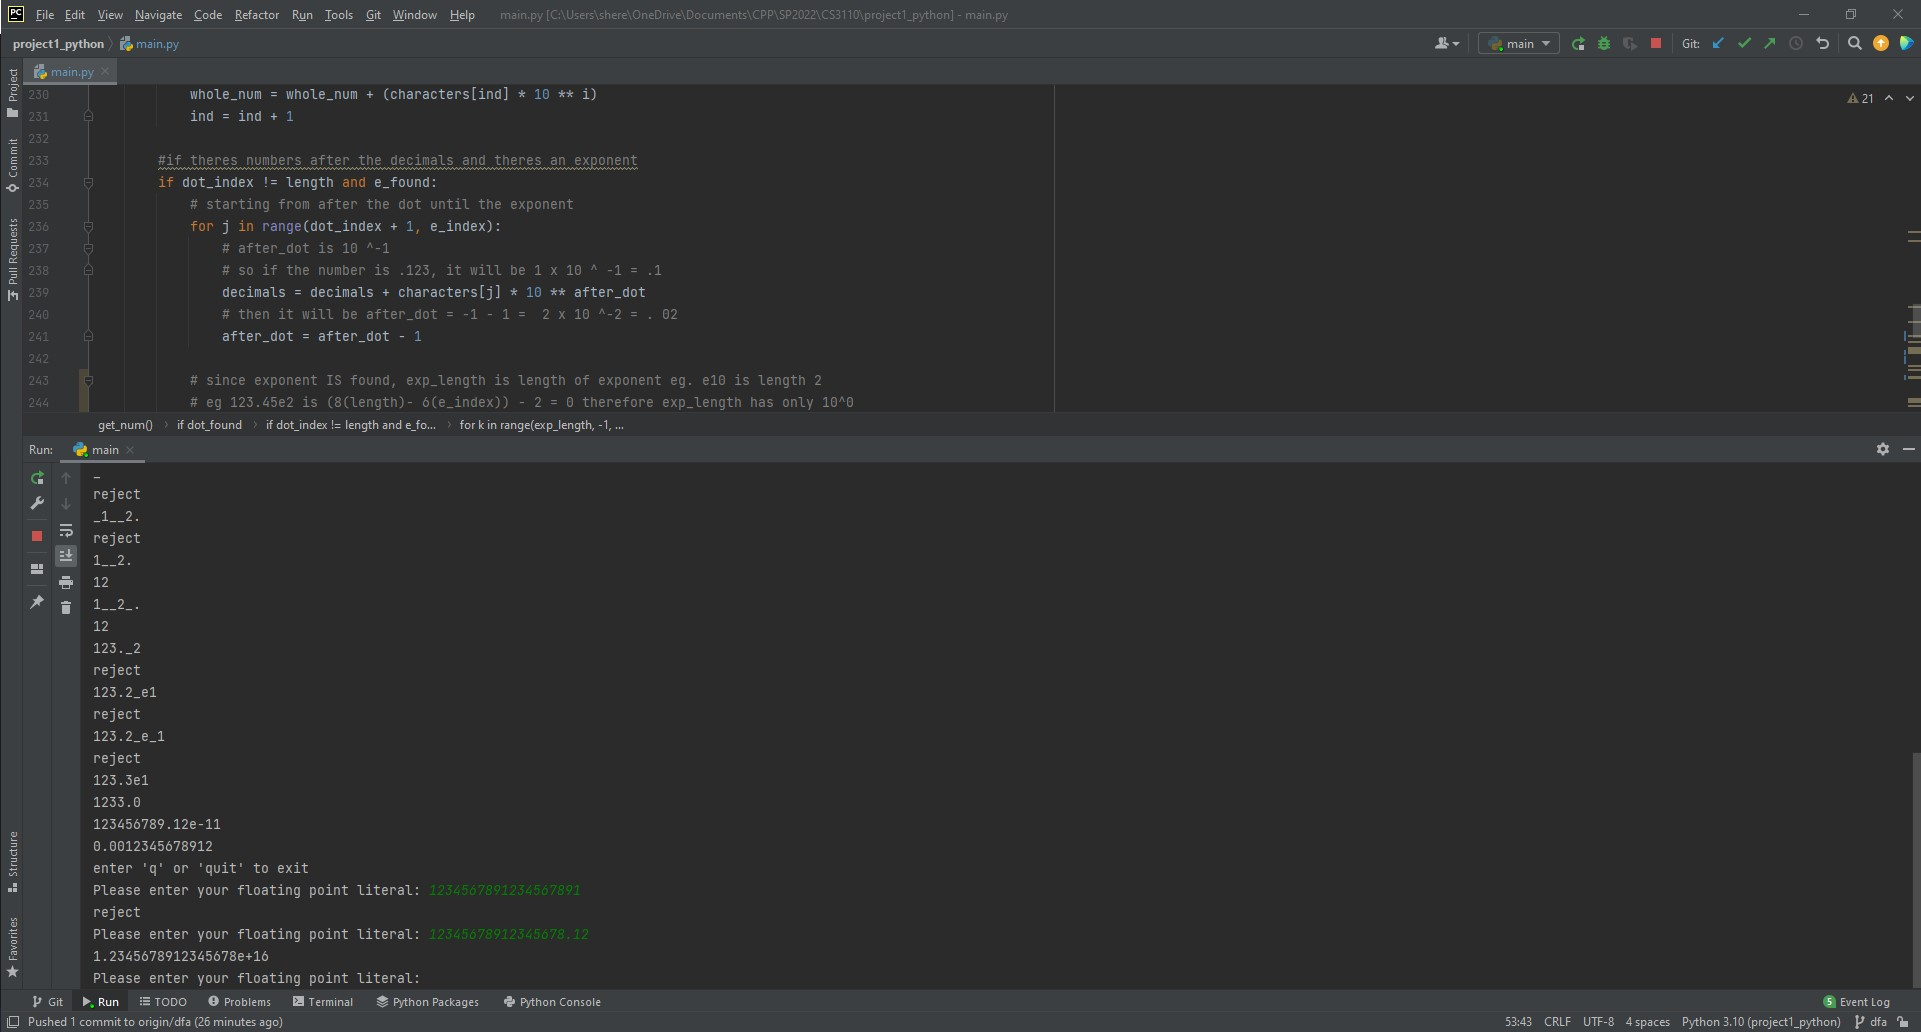
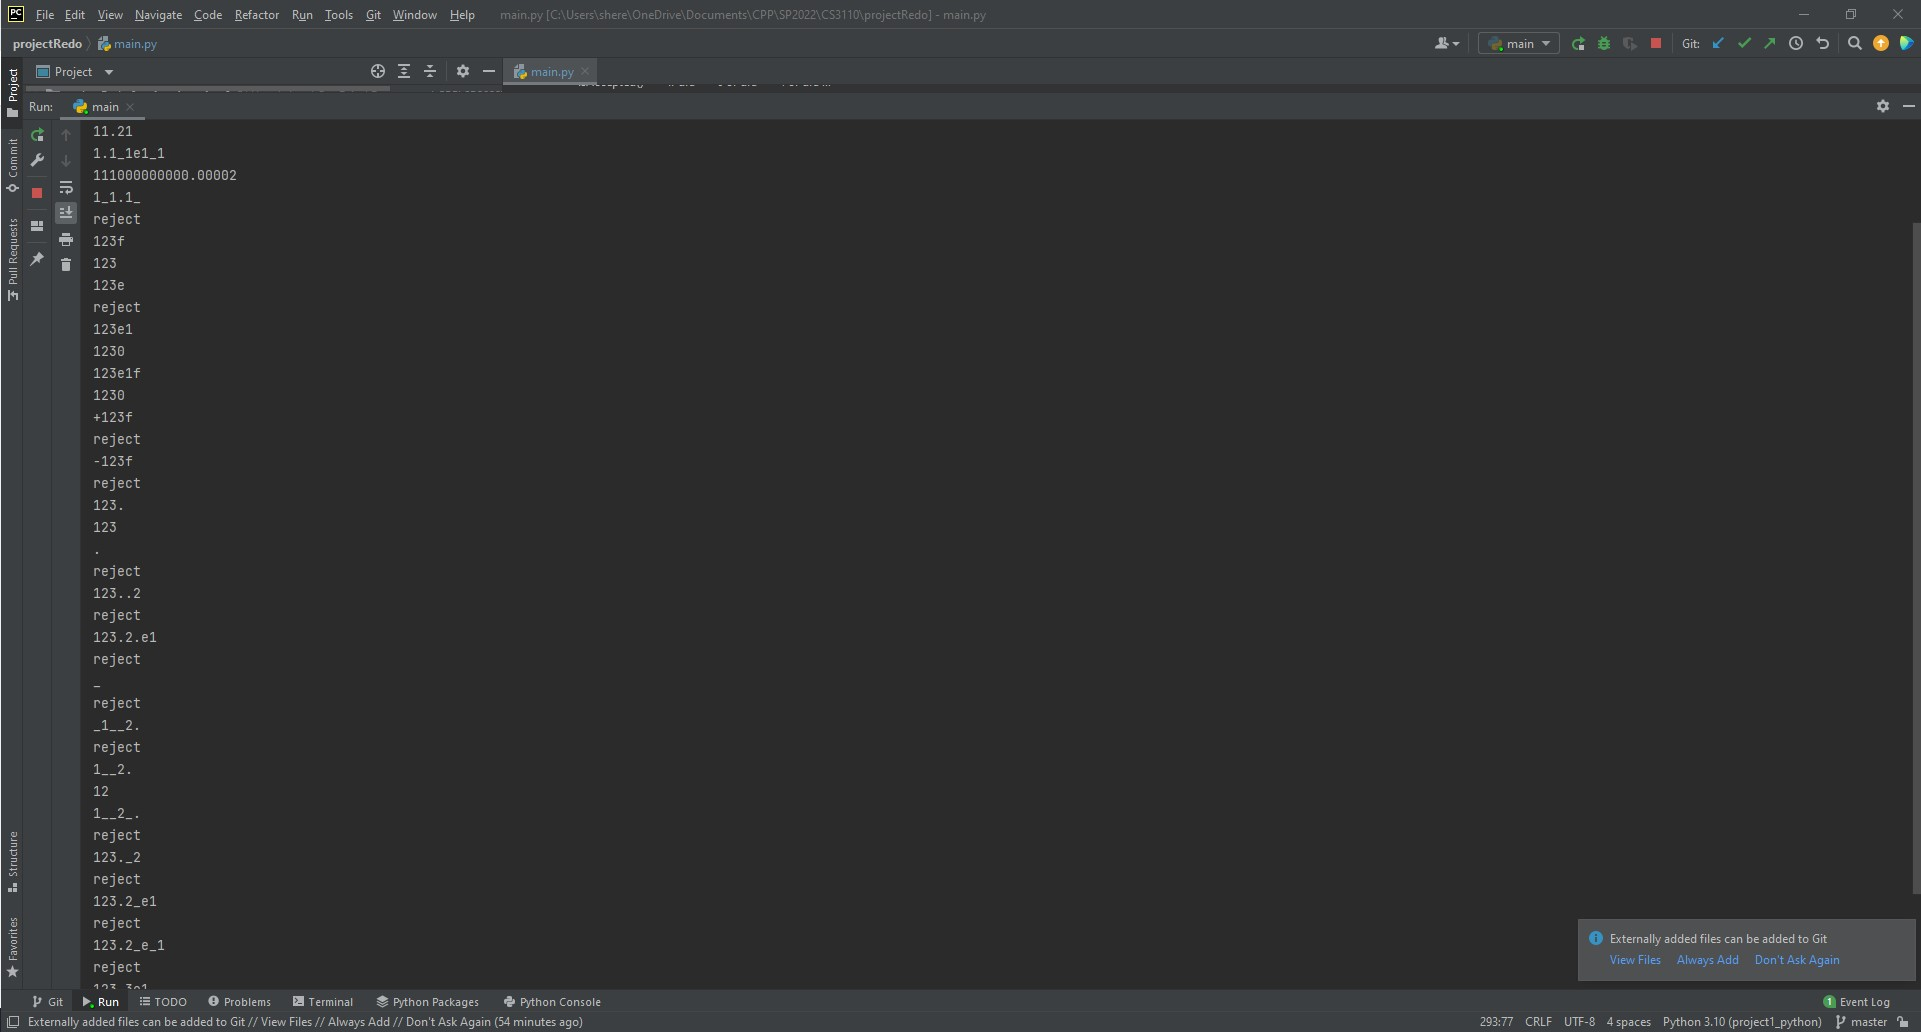
Changed code to accept underscores inbetween digits

diff --git a/main.py b/main.py
@@ -12,7 +12,7 @@ def start(c):
     # invalid symbol
     else:
         dfa = -1
-    return dfa, 0
+    return dfa, -1
 
 
 # This function is for the next state after the start state if start state was a 0-9
@@ -21,15 +21,16 @@ def start(c):
 # Accepts f, f next state 5 -> accept/end state
 def state1(c):
     dot = "."
+    underscores = {"_": "_"}
     accept_nums = {"0": 0, "1": 1, "2": 2, "3": 3, "4": 4, "5": 5, "6": 6,
-                   "7": 7, "8": 8, "9": 9, "_": "_"}
+                   "7": 7, "8": 8, "9": 9}
     accept_chars = {"e": "E"}
     accept_end = {"f": "f", "F": "F"}
     if c in accept_nums:
         dfa = 1
         return dfa, accept_nums[c]
     elif c == dot:
-        dfa = 2
+        dfa = 22
         return dfa, dot
     elif c in accept_chars:
         dfa = 3
@@ -37,16 +38,16 @@ def state1(c):
     elif c in accept_end:
         dfa = 5
         return dfa, accept_end[c]
+    elif c in underscores:
+        dfa = 7
+        return dfa, underscores[c]
     else:
         dfa = -1
-    return dfa, 0
+    return dfa, -1
 
 
-# This function next state if previous state was a "."
-# Accepts input 0-9 returns to itself
-# Accepts e, E next state 3
-# Accepts f, f next state 5 -> accept/end state
-def state2(c):
+def state22(c):
+    underscores = {"_": "_"}
     accept_nums = {"0": 0, "1": 1, "2": 2, "3": 3, "4": 4, "5": 5, "6": 6,
                    "7": 7, "8": 8, "9": 9}
     accept_chars = {"e": "E"}
@@ -60,9 +61,39 @@ def state2(c):
     elif c in accept_end:
         dfa = 5
         return dfa, accept_end[c]
+    elif c in underscores:
+        dfa = -1
+        return dfa, underscores[c]
     else:
         dfa = -1
-    return dfa, 0
+    return dfa, -1
+
+
+# This function next state if previous state was a "."
+# Accepts input 0-9 returns to itself
+# Accepts e, E next state 3
+# Accepts f, f next state 5 -> accept/end state
+def state2(c):
+    underscores = {"_": "_"}
+    accept_nums = {"0": 0, "1": 1, "2": 2, "3": 3, "4": 4, "5": 5, "6": 6,
+                   "7": 7, "8": 8, "9": 9}
+    accept_chars = {"e": "E"}
+    accept_end = {"f": "f", "F": "F"}
+    if c in accept_nums:
+        dfa = 2
+        return dfa, accept_nums[c]
+    elif c in accept_chars:
+        dfa = 3
+        return dfa, accept_chars[c]
+    elif c in accept_end:
+        dfa = 5
+        return dfa, accept_end[c]
+    elif c in underscores:
+        dfa = 7
+        return dfa, underscores[c]
+    else:
+        dfa = -1
+    return dfa, -1
 
 
 # This function is for after an e, E
@@ -79,7 +110,7 @@ def state3(c):
         return dfa, accept_nums[c]
     else:
         dfa = -1
-    return dfa, 0
+    return dfa, -1
 
 
 # This function is for the next state after the start state if start state was a .
@@ -97,7 +128,7 @@ def state4(c):
         return dfa, accept_end[c]
     else:
         dfa = -1
-    return dfa, 0
+    return dfa, -1
 
 
 # Accepts only f, F- accept/end state
@@ -108,13 +139,14 @@ def state5(c):
         return dfa, accept_end[c]
     else:
         dfa = -1
-    return dfa, 0
+    return dfa, -1
 
 
 # This function is only called if there is an exponent and after state 3
 # Accepts input 0-9 returns to itself
 # Accepts f, f next state 5 -> end state
 def state6(c):
+    underscores = {"_": "_"}
     accept_nums = {"0": 0, "1": 1, "2": 2, "3": 3, "4": 4, "5": 5, "6": 6,
                    "7": 7, "8": 8, "9": 9}
     accept_end = {"f": "f", "F": "F"}
@@ -124,10 +156,58 @@ def state6(c):
     elif c in accept_end:
         dfa = 5
         return dfa, accept_end[c]
+    elif c in underscores:
+        dfa = 8
+        return dfa, underscores[c]
     else:
         dfa = -1
-    return dfa, 0
+    return dfa, -1
 
+# state only for underscores before decimals
+def state7(c):
+    underscores = {"_": "_"}
+    accept_nums = {"0": 0, "1": 1, "2": 2, "3": 3, "4": 4, "5": 5, "6": 6,
+                   "7": 7, "8": 8, "9": 9}
+    if c in accept_nums:
+        dfa = 1
+        return dfa, accept_nums[c]
+    elif c in underscores:
+        dfa = 7
+        return dfa, underscores[c]
+    else:
+        dfa = -1
+        return dfa, -1
+
+# state for underscores after exponent part
+def state8(c):
+    underscores = {"_": "_"}
+    accept_nums = {"0": 0, "1": 1, "2": 2, "3": 3, "4": 4, "5": 5, "6": 6,
+                   "7": 7, "8": 8, "9": 9}
+    if c in accept_nums:
+        dfa = 6
+        return dfa, accept_nums[c]
+    elif c in underscores:
+        dfa = 8
+        return dfa, underscores[c]
+    else:
+        dfa = -1
+        return dfa, -1
+
+
+# state only for underscores after decimals
+def state9(c):
+    underscores = {"_": "_"}
+    accept_nums = {"0": 0, "1": 1, "2": 2, "3": 3, "4": 4, "5": 5, "6": 6,
+                   "7": 7, "8": 8, "9": 9}
+    if c in accept_nums:
+        dfa = 1
+        return dfa, accept_nums[c]
+    elif c in underscores:
+        dfa = 9
+        return dfa, underscores[c]
+    else:
+        dfa = -1
+        return dfa, -1
 
 def isAccepted(String):
     # store length of Stringing
@@ -148,9 +228,9 @@ def isAccepted(String):
 
     # Some fail safes if input is a _ or . only
     if String == "_":
-        return False, 0
+        return False, -1
     elif String == ".":
-        return False, 0
+        return False, -1
 
     # DFA to determine if input is acceptable
     for i in range(length):
@@ -168,6 +248,14 @@ def isAccepted(String):
             dfa, num = state5(String[i])
         elif dfa == 6:
             dfa, num = state6(String[i])
+        elif dfa == 7:
+            dfa, num = state7(String[i])
+        elif dfa == 8:
+            dfa, num = state8(String[i])
+        elif dfa == 9:
+            dfa, num = state9(String[i])
+        elif dfa == 22:
+            dfa, num = state22(String[i])
         else:
             return False, 0
 
@@ -184,7 +272,7 @@ def isAccepted(String):
             e_index = cnt
             e_found = True
             characters.append(num)
-        # if "_" is the current character, it is ignored
+        # if "+" is the current character, it is ignored
         elif "+" == num:
             continue
         # if negative it means it is an accepted negative which means it is a negative
@@ -200,8 +288,9 @@ def isAccepted(String):
         # keeps track of character array indexes
         cnt = cnt + 1
 
+
     # accepted states of the dfa
-    if dfa == 6 or dfa == 4 or dfa == 5 or dfa == 2:
+    if dfa == 6 or dfa == 4 or dfa == 5 or dfa == 2 or dfa == 1 or dfa == 22:
         # function to take character array and transform into a float
         number = get_num(characters, e_index, e_found, dot_index, dot_found, minus_found)
         return True, number
@@ -305,7 +394,7 @@ def get_num(characters, e_index, e_found, dot_index, dot_found, minus_found):
 
 # function to call as a sanity check and to ensure code is correct
 def sanity_check():
-    test_num = ['', '123', '123f', '123e', '123e1', '123e1f', '+123f', '-123f',
+    test_num = ['', '123', '1_1.2_1', '1.1_1e1_1', '1_1.1_', '123f', '123e', '123e1', '123e1f', '+123f', '-123f',
                 '123.', '.', '123..2', '123.2.e1', '_', '_1__2.', '1__2.', '1__2_.',
                 '123._2', '123.2_e1', '123.2_e_1', '123.3e1', '123456789.12e-11']
 
@@ -326,7 +415,7 @@ if __name__ == '__main__':
     again = True
 
     # Function to check code and make sure it works fine
-    # sanity_check()
+    sanity_check()
 
     # infinite loop asking user to enter a number
     # exits when entered q or quit
